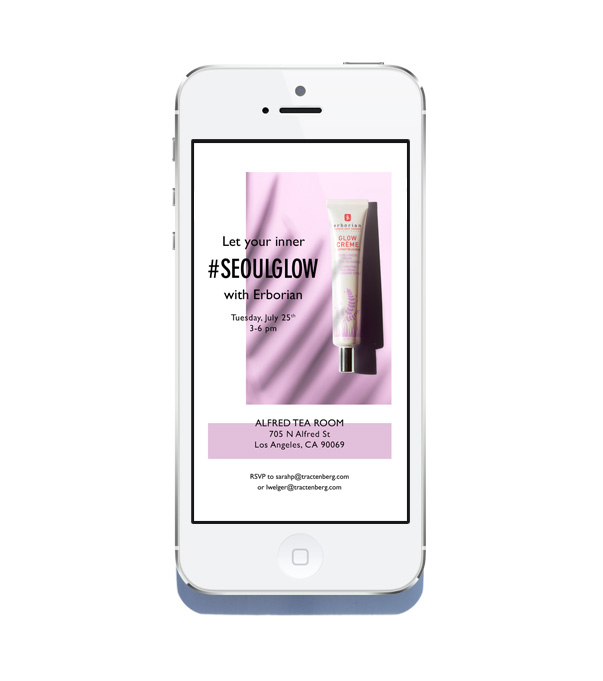
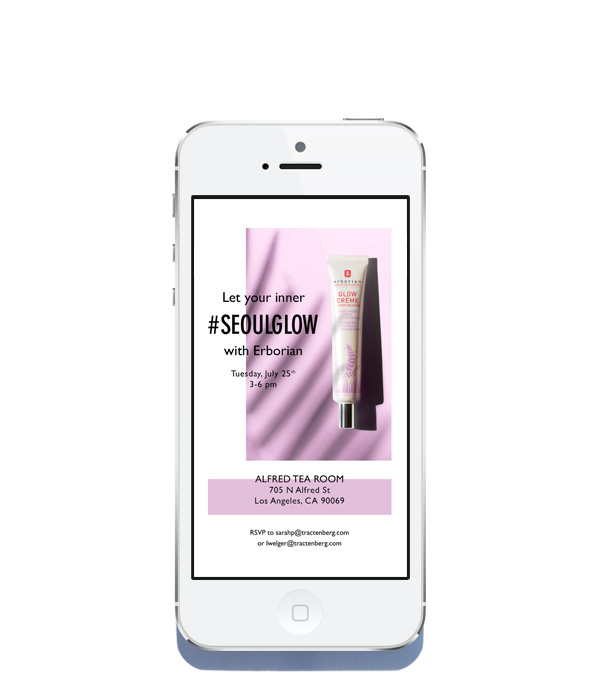
revised Erborian revised

Changed region(s): [[0.2687, 0.0925, 0.7164, 0.9868]]

diff --git a/ErborianRedesign.html b/ErborianRedesign.html
@@ -41,9 +41,11 @@
       <img class="work-image" src="include/img/gallery/full/erborianRebranding/603w/ErborianRebranding_swatch_image_603w_2.jpg"/>
       <img class="work-image" src="include/img/gallery/full/erborianRebranding/603w/ErborianRebranding_work_image_603w.jpg"/>
       <img class="work-image" src="include/img/gallery/full/erborianRebranding/603w/ErborianRebranding_work_image_603w_2.jpg"/>
-      <img class="work-image-large" src="include/img/gallery/full/erborianRebranding/603w/Erborian_work_image_large_603w_3.jpg"/>      
+      <img class="work-image-large" src="include/img/gallery/full/erborianRebranding/603w/Erborian_work_image_large_603w_3.jpg"/>
       <img class="work-image" src="include/img/gallery/full/erborianEmails/ErborianEmails_3.jpg"/>
       <img class="work-image" src="include/img/gallery/full/erborianEmails/ErborianEmails_3_phone.jpg"/>
+      <img class="work-image" src="include/img/gallery/full/glow/603w/GlowInvite_workImage1_603w.jpg"/>
+      <img class="work-image" src="include/img/gallery/full/glow/603w/GlowInvite_phone_603w.jpg"/>
       <img class="work-image" src="include/img/gallery/full/erborianEmails/ErborianEmails_1.jpg"/>
       <img class="work-image" src="include/img/gallery/full/erborianEmails/ErborianEmails_1_phone.jpg"/>
       <img class="work-image" src="include/img/gallery/full/erborianEmails/ErborianEmails_2.jpg"/>
